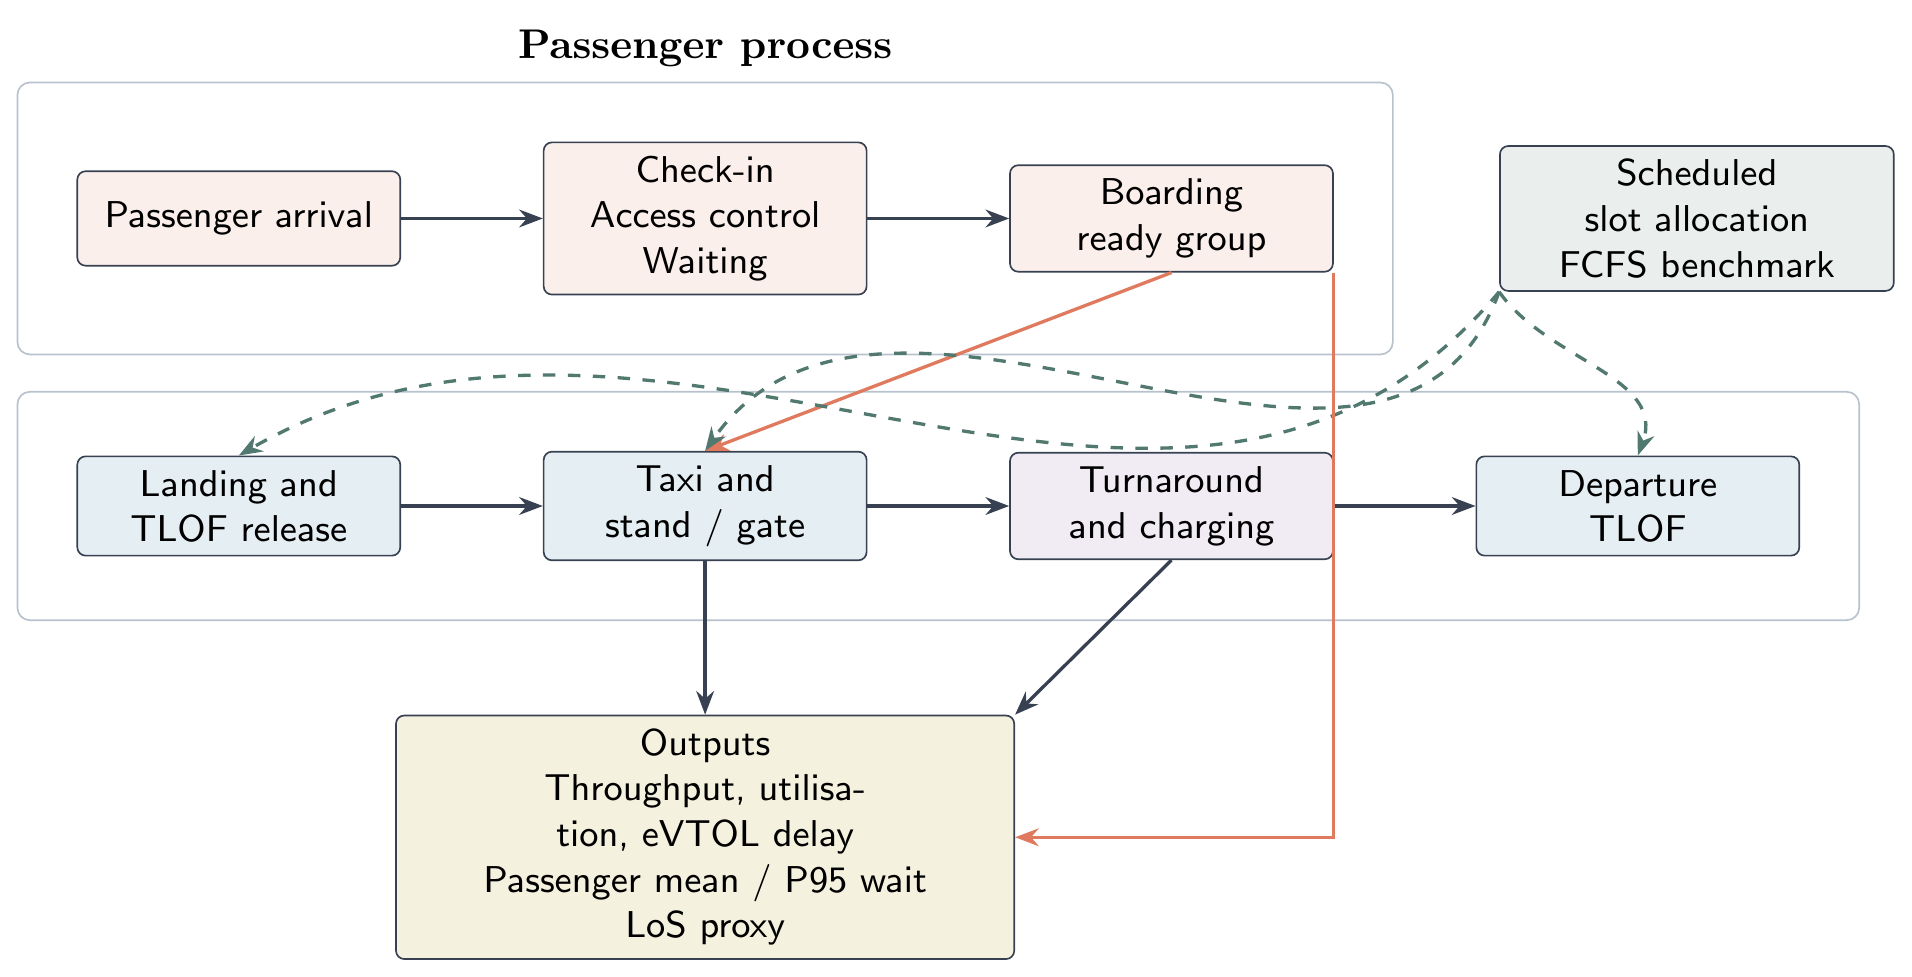
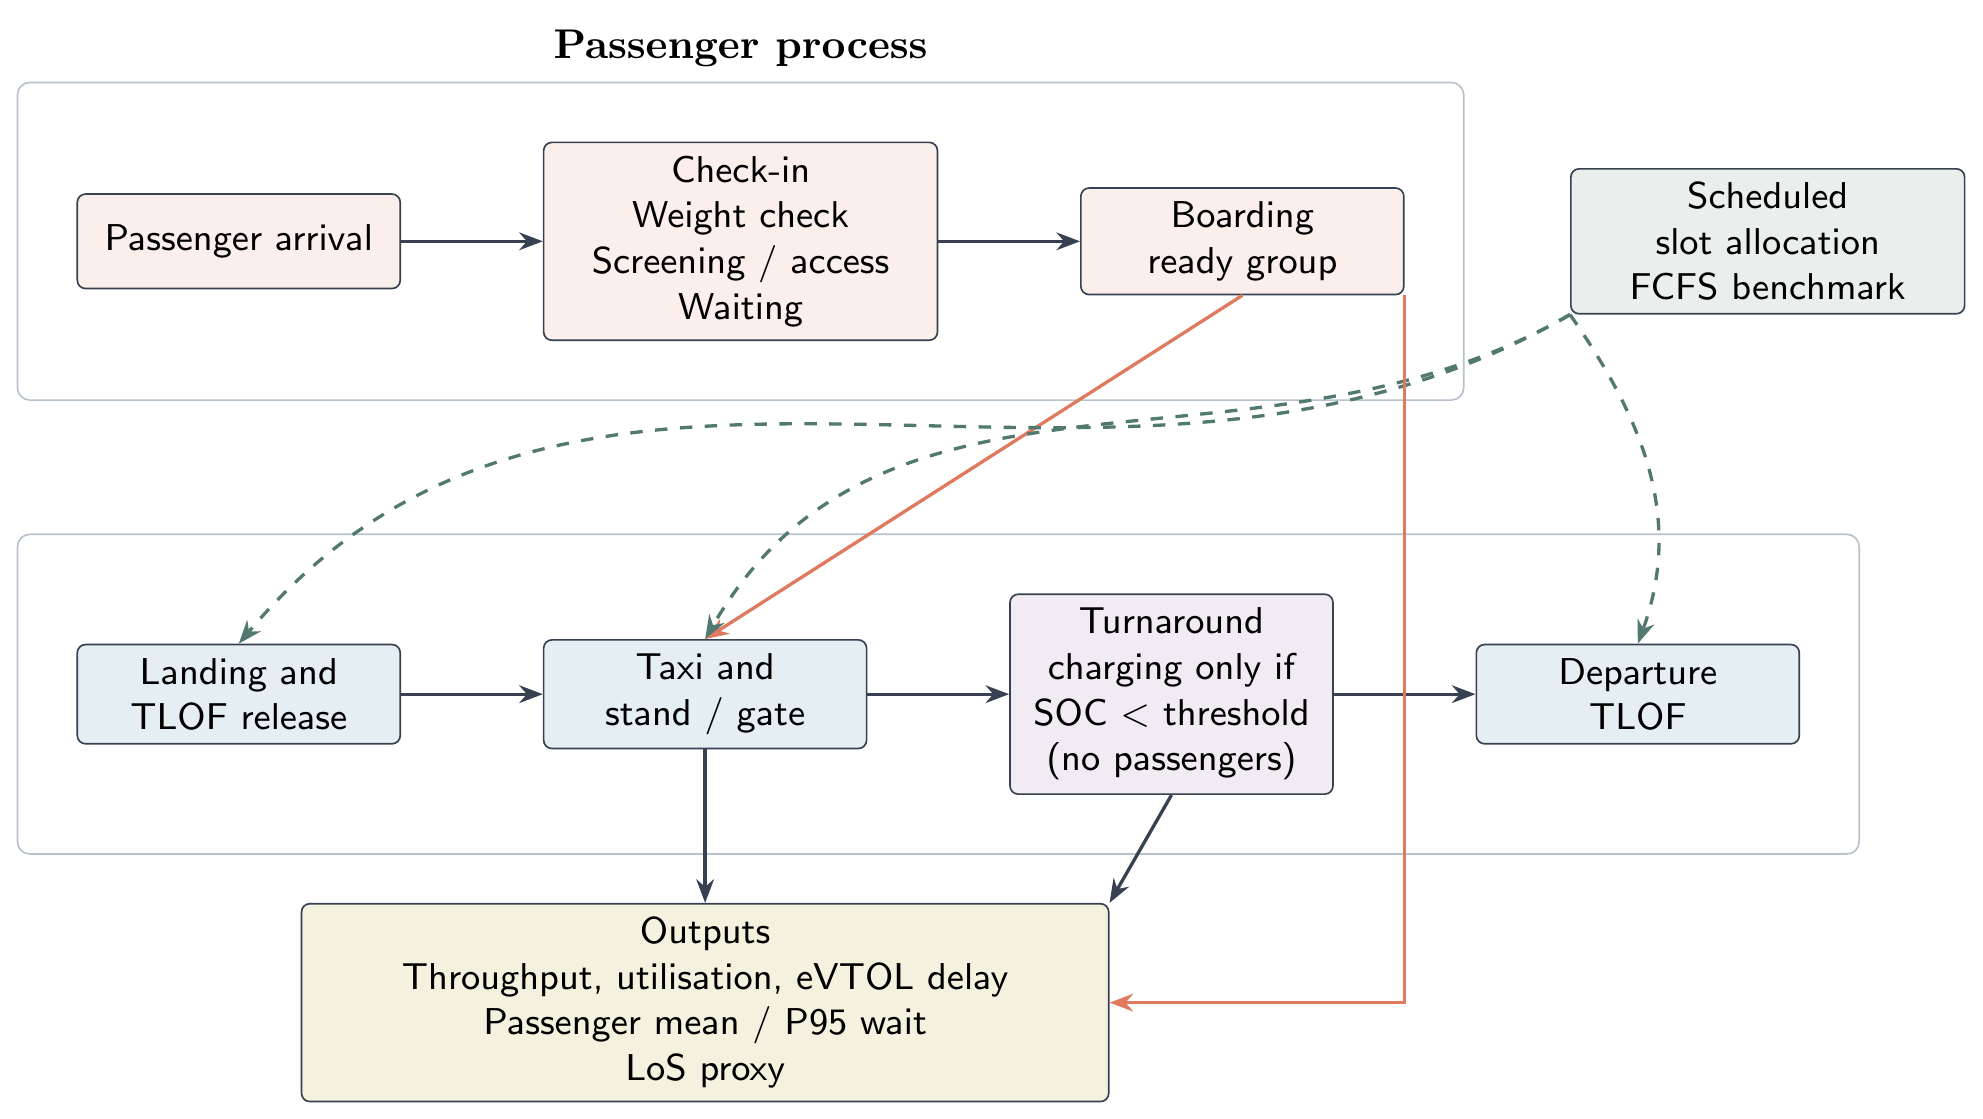
claude: update coupled-network figure with Task 01 rules
Terminal box now shows mandatory weight check and screening/access;
turnaround box shows charging only when SOC is below the dispatch
threshold and never with passengers present. Spacing fixed so groups,
dashed constraints and labels no longer overlap. PNG re-rendered at
300 dpi from the compiled PDF; byte-identical duplicate removed.

diff --git a/figures/fig_coupled_network.tex b/figures/fig_coupled_network.tex
@@ -18,24 +18,24 @@
 \begin{document}
 \begin{tikzpicture}[font=\sffamily\small, node distance=9mm and 12mm]
   \node[box, fill=passenger!12] (arrival) {Passenger arrival};
-  \node[box, fill=passenger!12, right=of arrival] (terminal) {Check-in\\Access control\\Waiting};
+  \node[box, fill=passenger!12, right=of arrival, text width=31mm] (terminal) {Check-in\\Weight check\\Screening / access\\Waiting};
   \node[box, fill=passenger!12, right=of terminal] (boarding) {Boarding\\ready group};
   \node[fit=(arrival)(terminal)(boarding), group, label={[font=\bfseries]above:Passenger process}] (pgroup) {};
-  \node[box, fill=airside!12, below=16mm of arrival] (tlofarr) {Landing and\\TLOF release};
+  \node[box, fill=airside!12, below=30mm of arrival] (tlofarr) {Landing and\\TLOF release};
   \node[box, fill=airside!12, right=of tlofarr] (stand) {Taxi and\\stand / gate};
-  \node[box, fill=energy!12, right=of stand] (turn) {Turnaround\\and charging};
+  \node[box, fill=energy!12, right=of stand] (turn) {Turnaround\\charging only if\\SOC $<$ threshold\\(no passengers)};
   \node[box, fill=airside!12, right=of turn] (tlofdep) {Departure\\TLOF};
   \node[fit=(tlofarr)(stand)(turn)(tlofdep), group] (agroup) {};
   \node[box, fill=control!12, right=14mm of boarding, text width=31mm] (schedule) {Scheduled slot allocation\\FCFS benchmark};
-  \node[box, fill=metricfill, below=13mm of stand, text width=50mm] (metrics) {Outputs\\Throughput, utilisation, eVTOL delay\\Passenger mean / P95 wait\\LoS proxy};
+  \node[box, fill=metricfill, below=13mm of stand, text width=66mm] (metrics) {Outputs\\Throughput, utilisation, eVTOL delay\\Passenger mean / P95 wait\\LoS proxy};
   \draw[flow] (arrival) -- (terminal);
   \draw[flow] (terminal) -- (boarding);
   \draw[flow] (tlofarr) -- (stand);
   \draw[flow] (stand) -- (turn);
   \draw[flow] (turn) -- (tlofdep);
   \draw[coupling] (boarding.south) -- (stand.north);
-  \draw[constraint] (schedule.south west) to[out=-130,in=30] (tlofarr.north);
-  \draw[constraint] (schedule.south west) to[out=-110,in=55] (stand.north);
+  \draw[constraint] (schedule.south west) to[out=-150,in=50] (tlofarr.north);
+  \draw[constraint] (schedule.south west) to[out=-150,in=60] (stand.north);
   \draw[constraint] (schedule.south west) to[out=-55,in=70] (tlofdep.north);
   \draw[flow] (stand.south) -- (metrics.north);
   \draw[flow] (turn.south) -- (metrics.north east);
